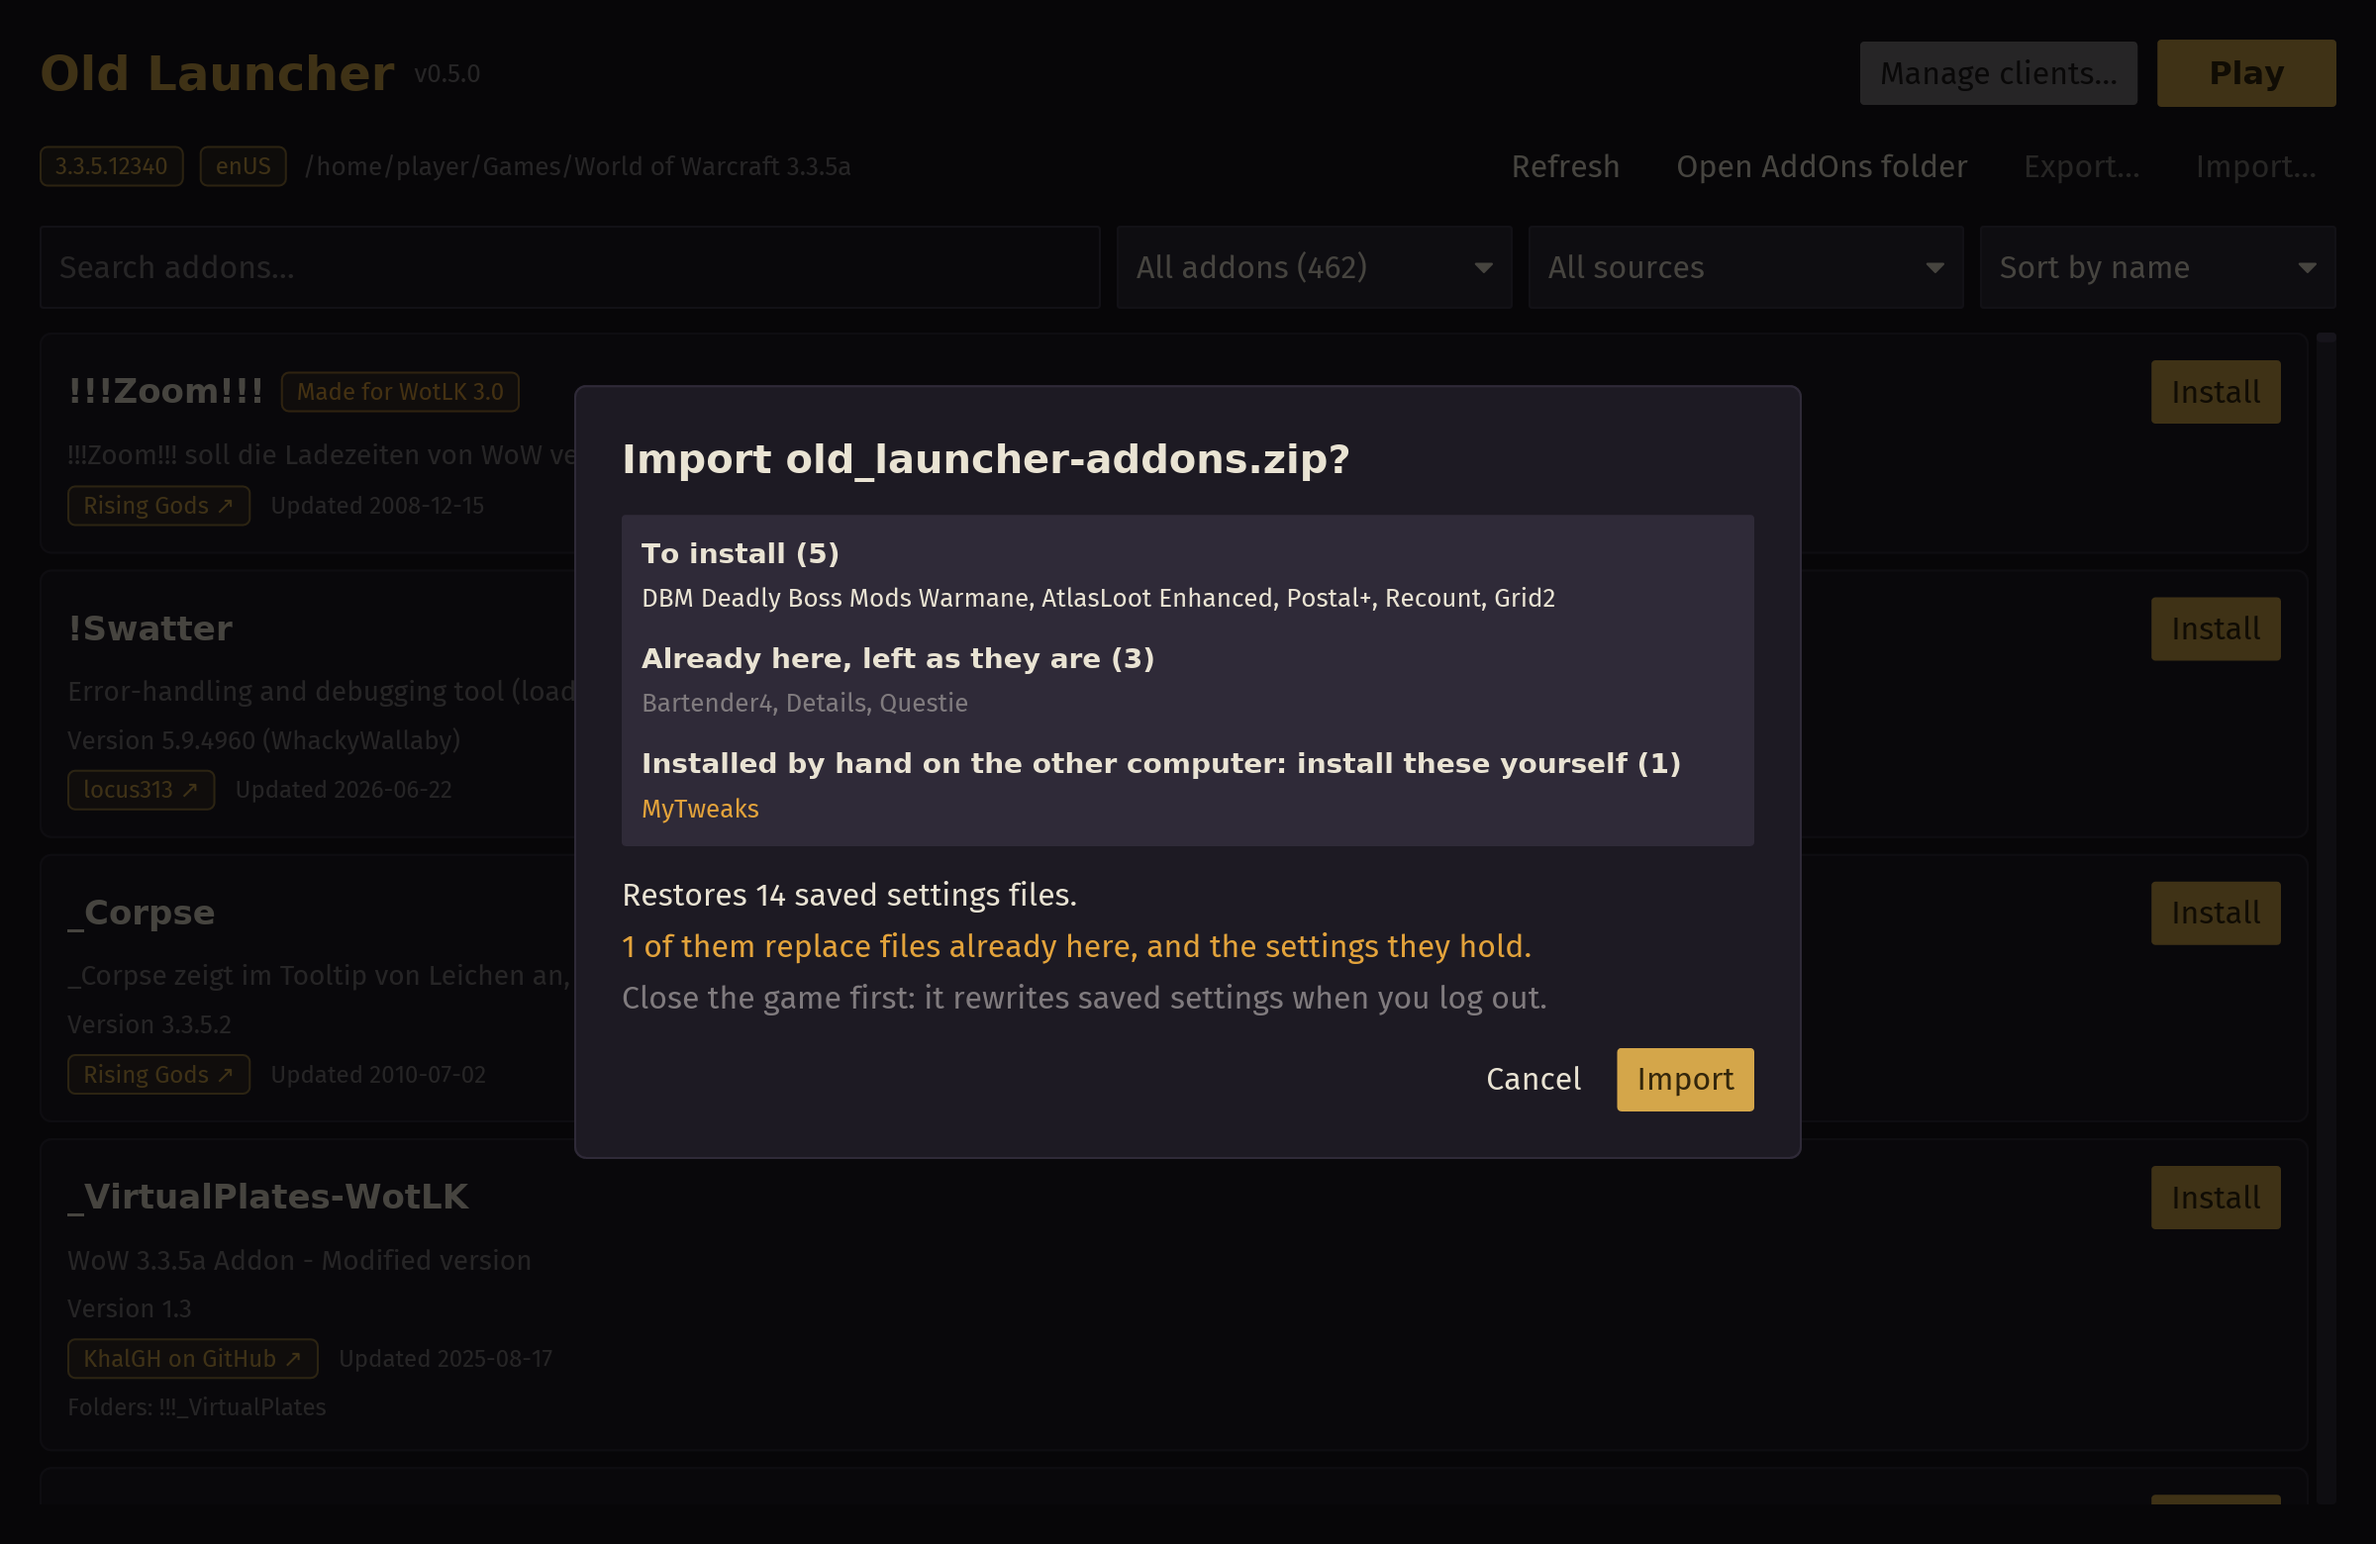
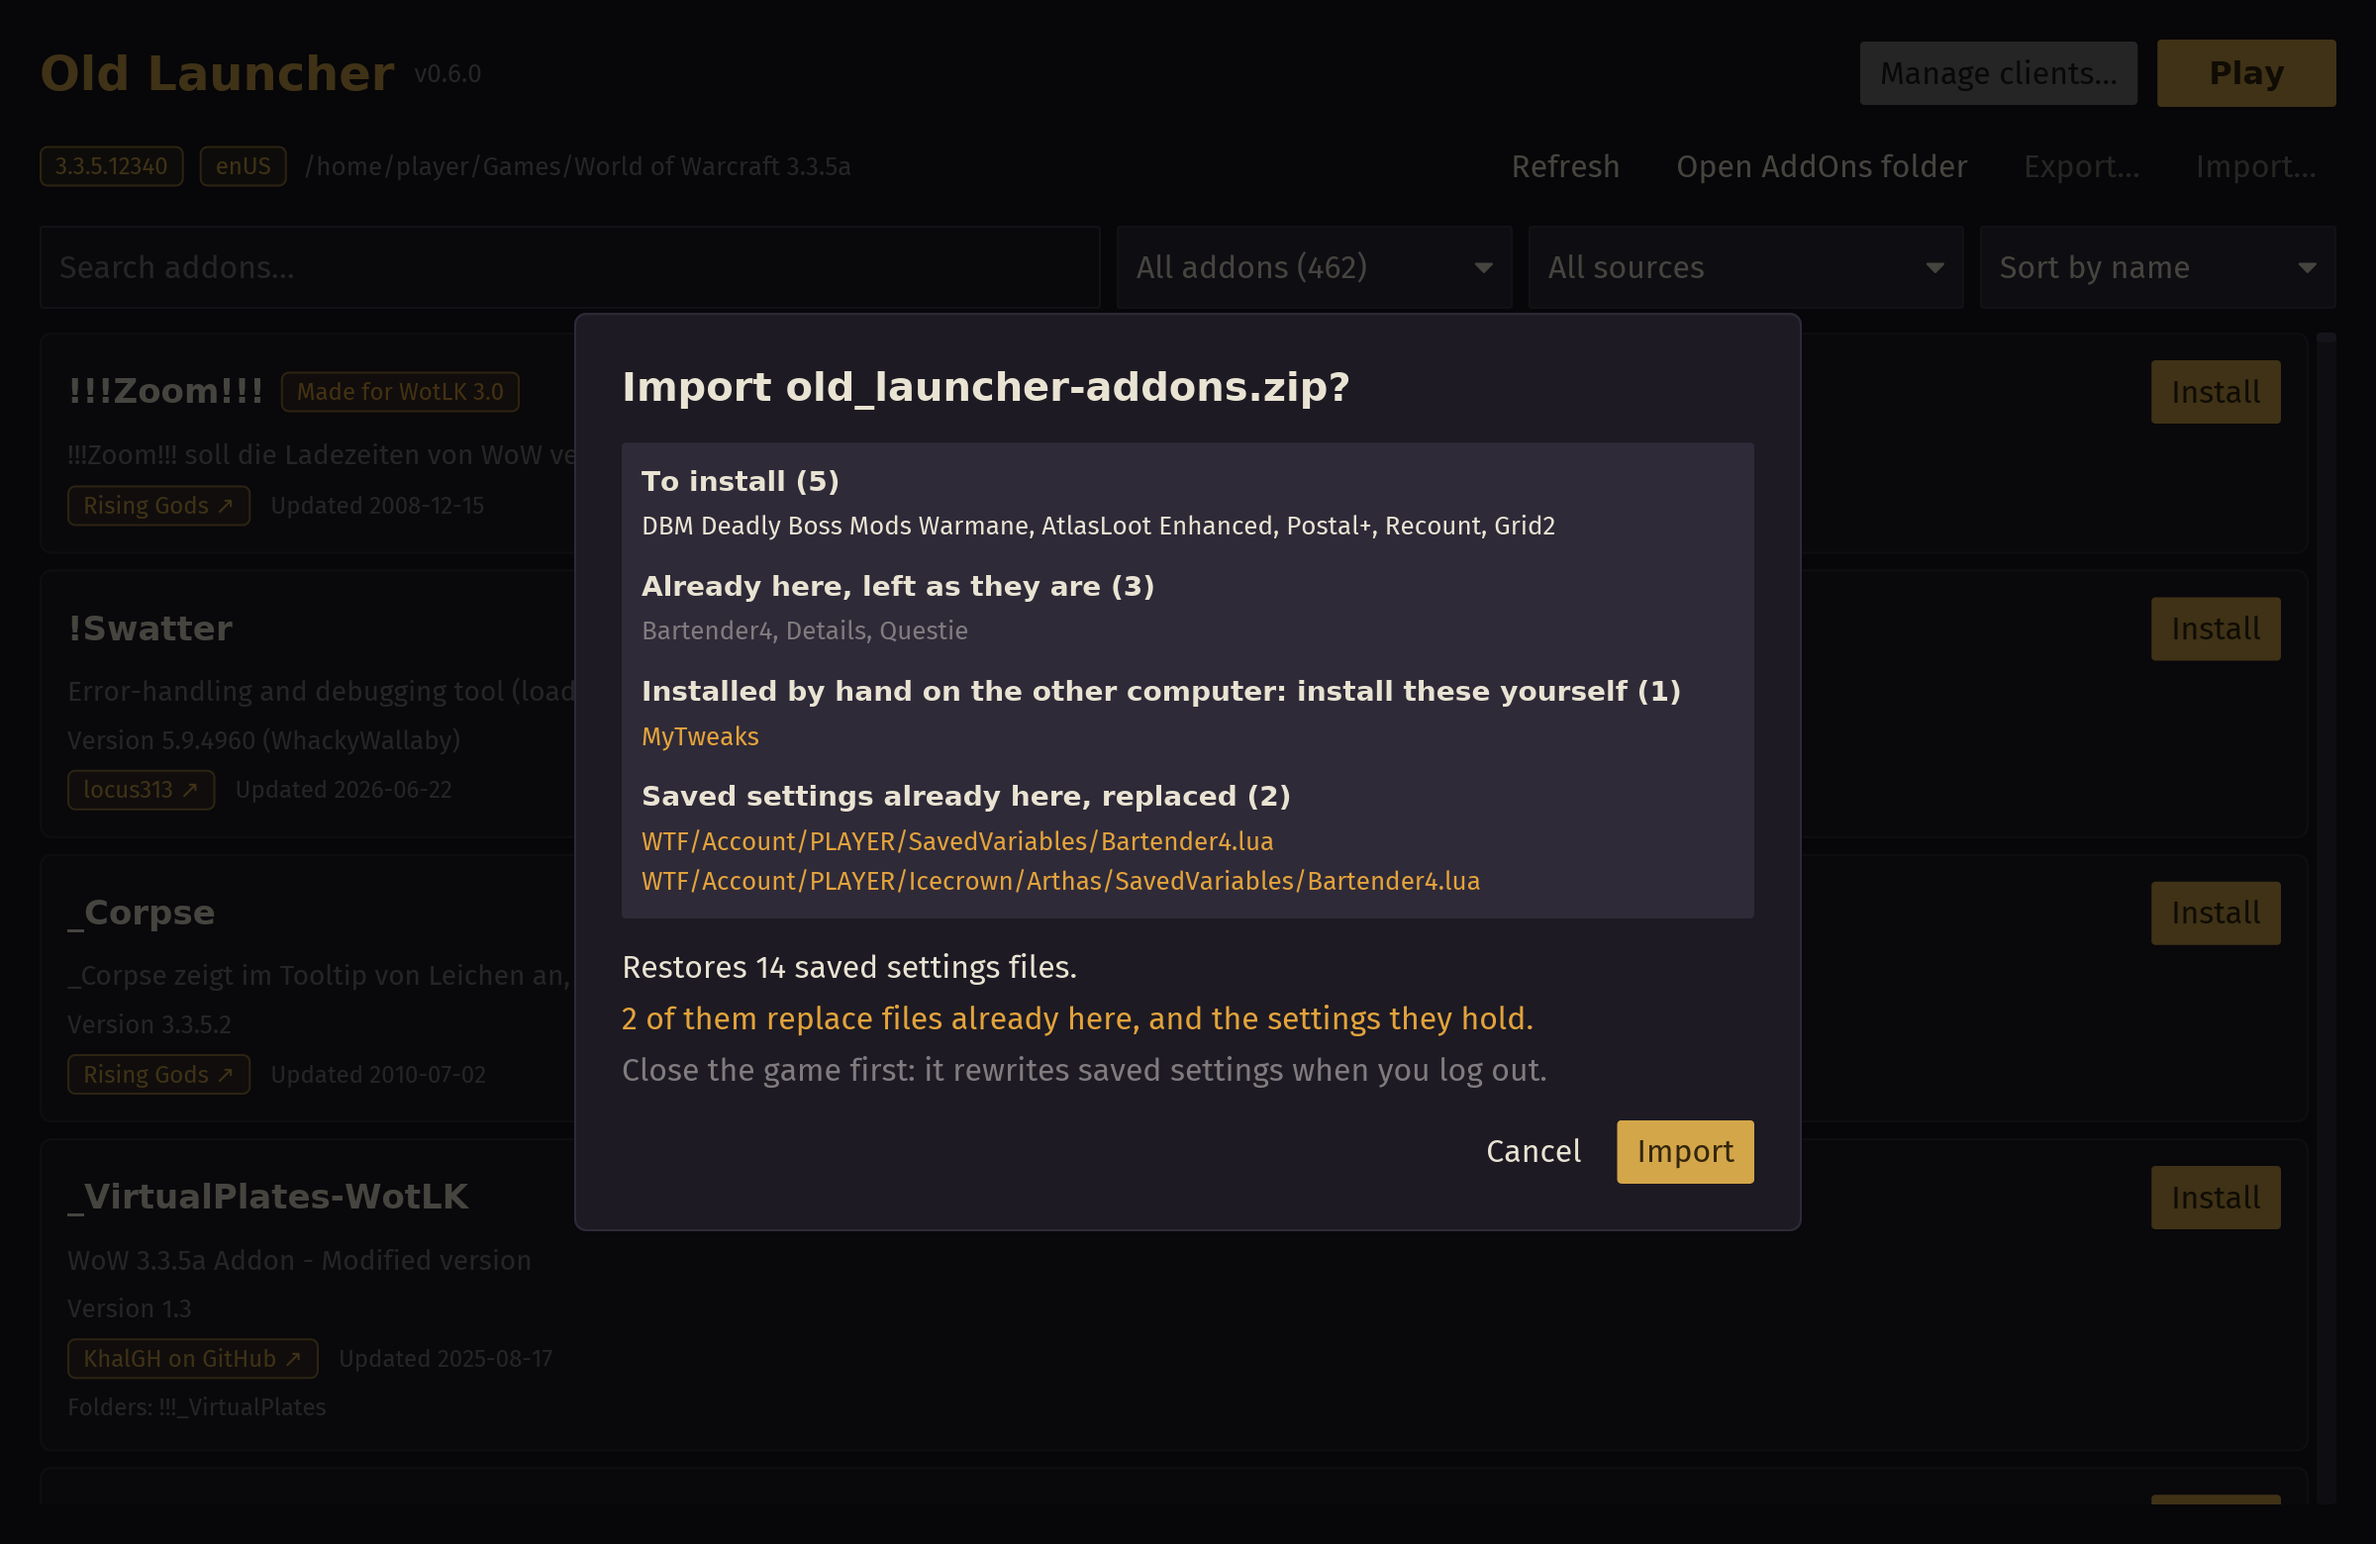
List the saved settings files an import replaces
The import dialog only counted them. It now lists each one under "Saved
settings already here, replaced", by its path in the client folder, as
the uninstall and clean dialogs list files: the path says which addon
and whether the whole account or one character loses its settings. A
single file reads "1 of them replaces a file", no longer "replace".

The screenshots are rendered again: the import one shows the list, and
all of them the 0.6 version.

Changed region(s): [[0.25, 0.2462, 0.75, 0.7692], [0.2188, 0.1846, 0.7812, 0.2154]]

diff --git a/src/transfer.rs b/src/transfer.rs
@@ -298,6 +298,10 @@ impl State {
                 "",
                 Some(text::warning),
             ))
+            .push(files(
+                "Saved settings already here, replaced",
+                &plan.replaced,
+            ))
             .spacing(12);
 
         let files = import.files.len();
@@ -309,13 +313,16 @@ impl State {
                 if files == 1 { "file" } else { "files" }
             )
         };
-        let replaces = (!plan.replaced.is_empty()).then(|| {
-            text(format!(
-                "{} of them replace files already here, and the settings they hold.",
-                plan.replaced.len()
-            ))
-            .style(text::warning)
-        });
+        let replaces = match plan.replaced.len() {
+            0 => None,
+            1 => Some(
+                "1 of them replaces a file already here, and the settings it holds.".to_owned(),
+            ),
+            replaced => Some(format!(
+                "{replaced} of them replace files already here, and the settings they hold."
+            )),
+        }
+        .map(|replaces| text(replaces).style(text::warning));
 
         Some(
             container(
@@ -383,16 +390,40 @@ fn section<'a, Message: 'a>(
         body = body.style(tone);
     }
 
+    Some(column![heading(title, names.len()), body].spacing(4).into())
+}
+
+/// A titled list of data `files`, one per line, relative to the client
+/// folder; left out when there are none.
+fn files<'a, Message: 'a>(title: &'a str, files: &[PathBuf]) -> Option<Element<'a, Message>> {
+    if files.is_empty() {
+        return None;
+    }
+
+    let lines = column(files.iter().map(|file| {
+        // With the slashes the other dialogs use, on Windows too.
+        let path = file
+            .components()
+            .map(|component| component.as_os_str().to_string_lossy())
+            .collect::<Vec<_>>()
+            .join("/");
+
+        text(path).size(13).style(text::warning).into()
+    }))
+    .spacing(2);
+
     Some(
-        column![
-            text(format!("{title} ({})", names.len()))
-                .size(14)
-                .font(style::BOLD),
-            body,
-        ]
-        .spacing(4)
-        .into(),
+        column![heading(title, files.len()), lines]
+            .spacing(4)
+            .into(),
     )
+}
+
+/// A section's title, with how many items it lists.
+fn heading<'a>(title: &str, count: usize) -> iced::widget::Text<'a> {
+    text(format!("{title} ({count})"))
+        .size(14)
+        .font(style::BOLD)
 }
 
 #[cfg(test)]
@@ -494,7 +525,9 @@ mod tests {
             "Installed by hand on the other computer: install these yourself (1)",
             "Mine",
             "Restores 2 saved settings files.",
-            "1 of them replace files already here, and the settings they hold.",
+            "Saved settings already here, replaced (1)",
+            "WTF/Account/ME/SavedVariables/Omen.lua",
+            "1 of them replaces a file already here, and the settings it holds.",
         ] {
             assert!(ui.find(line).is_ok(), "{line}");
         }
@@ -503,6 +536,56 @@ mod tests {
                 .is_err(),
             "empty sections are left out"
         );
+    }
+
+    #[test]
+    fn every_saved_settings_file_an_import_replaces_is_listed() {
+        let (import, mut plan) = reviewed();
+        plan.replaced = vec![
+            PathBuf::from("WTF/Account/ME/SavedVariables/Omen.lua"),
+            [
+                "WTF",
+                "Account",
+                "ME",
+                "Icecrown",
+                "Arthas",
+                "SavedVariables",
+                "Skada.lua",
+            ]
+            .iter()
+            .collect(),
+        ];
+        let mut state = State::default();
+        let _ = update(&mut state, Message::Read(Ok((import, plan))));
+
+        let dialog = state.view().expect("the dialog is open");
+        let mut ui = simulator(dialog);
+
+        for line in [
+            "Saved settings already here, replaced (2)",
+            "WTF/Account/ME/SavedVariables/Omen.lua",
+            "WTF/Account/ME/Icecrown/Arthas/SavedVariables/Skada.lua",
+            "2 of them replace files already here, and the settings they hold.",
+        ] {
+            assert!(ui.find(line).is_ok(), "{line}");
+        }
+    }
+
+    #[test]
+    fn an_import_replacing_nothing_lists_nothing_replaced() {
+        let (import, mut plan) = reviewed();
+        plan.replaced.clear();
+        let mut state = State::default();
+        let _ = update(&mut state, Message::Read(Ok((import, plan))));
+
+        let dialog = state.view().expect("the dialog is open");
+        let mut ui = simulator(dialog);
+
+        assert!(
+            ui.find("Saved settings already here, replaced (0)")
+                .is_err()
+        );
+        assert!(ui.find("Restores 2 saved settings files.").is_ok());
     }
 
     #[test]

diff --git a/src/screenshots.rs b/src/screenshots.rs
@@ -200,9 +200,10 @@ fn screenshots() {
         present: vec![listed("Bartender4"), listed("Details"), listed("Questie")],
         unavailable: Vec::new(),
         manual: vec![listed("MyTweaks")],
-        replaced: vec![PathBuf::from(
-            "WTF/Account/PLAYER/SavedVariables/Bartender4.lua",
-        )],
+        replaced: vec![
+            PathBuf::from("WTF/Account/PLAYER/SavedVariables/Bartender4.lua"),
+            PathBuf::from("WTF/Account/PLAYER/Icecrown/Arthas/SavedVariables/Bartender4.lua"),
+        ],
     };
     let _ = app.update(Message::Addons(addons::Message::StatusSelected(
         Status::All,
